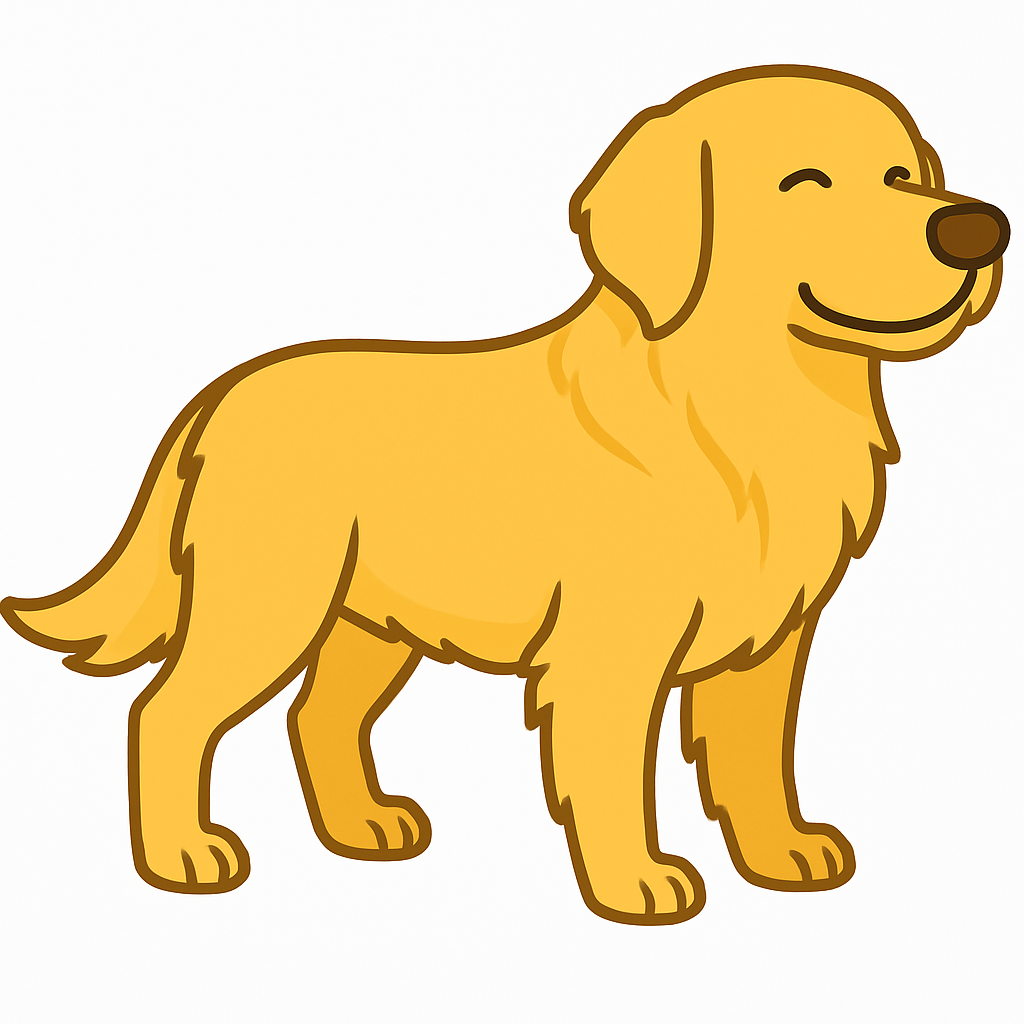
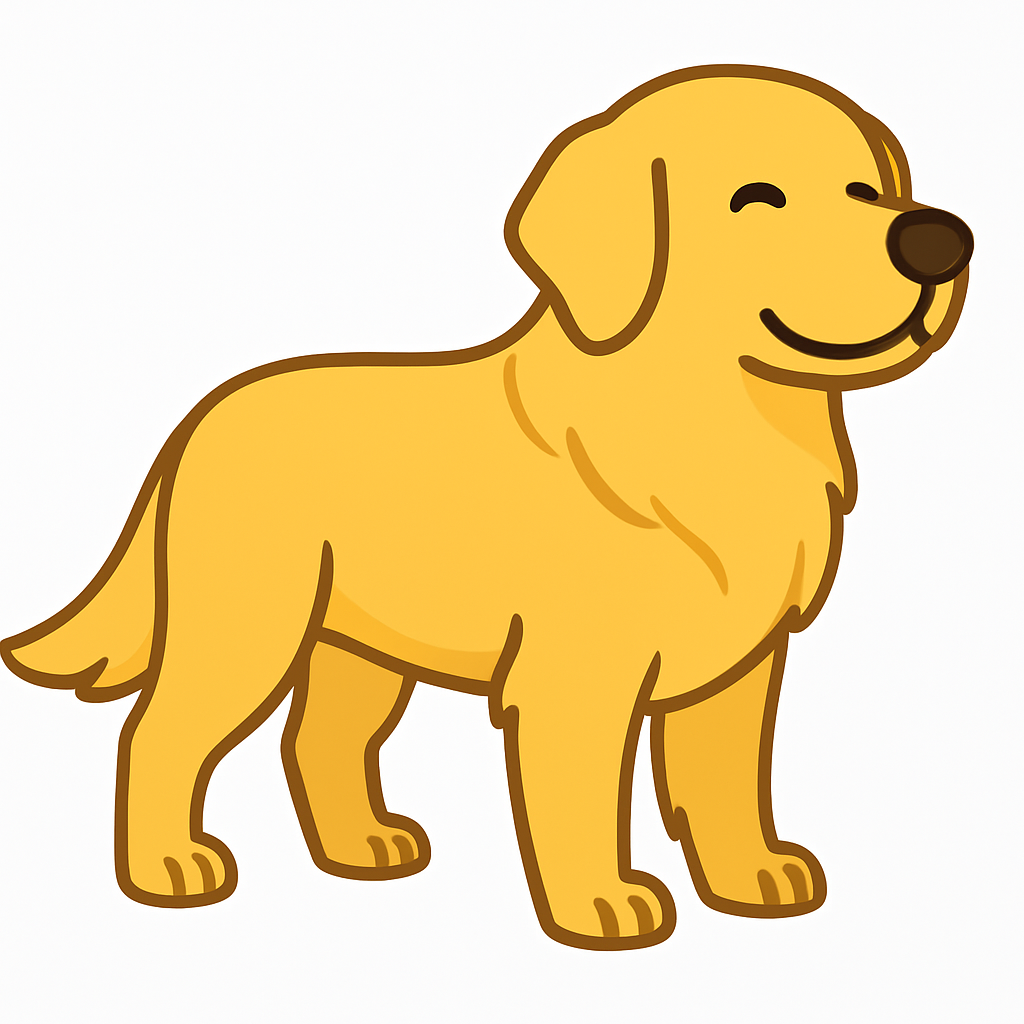
add img

Changed region(s): [[0.0, 0.0625, 1.0, 0.9375]]

diff --git a/src/App.tsx b/src/App.tsx
@@ -7,34 +7,32 @@ import { state } from "./state";
 import { Stage } from "./types";
 
 import firstDog from "./images/1.png";
+import { IMG_MAP } from "./constants";
 
 export function App() {
   const { points, stage, reaction } = useSnapshot(state);
 
-  // Если что логика скрыта
-  // const handleClick = () => {
-  //   const newPoints = points + 1;
-  //   state.points = newPoints;
+  const handleClick = () => {
+    const newPoints = points + 1;
+    state.points = newPoints;
 
-  //   if (newPoints === 10) {
-  //     state.stage = Stage.second;
-  //   }
-  //   if (newPoints === 25) {
-  //     state.stage = Stage.third;
-  //   }
+    if (newPoints === 10) {
+      state.stage = Stage.second;
+    }
+    if (newPoints === 25) {
+      state.stage = Stage.third;
+    }
 
-  //   // Простая случайная реакция
-  //   const reactions = [
-  //     "Гав-гав!",
-  //     "Мяу... ой, я пёс!",
-  //     "Хочу косточку!",
-  //     "Ты лучший друг!",
-  //     "Погладь меня ещё!",
-  //   ];
-  //   state.reaction = reactions[Math.floor(Math.random() * reactions.length)];
-  // };
-
-  const handleClick = () => {};
+    // Простая случайная реакция
+    const reactions = [
+      "Гав-гав!",
+      "Мяу... ой, я пёс!",
+      "Хочу косточку!",
+      "Ты лучший друг!",
+      "Погладь меня ещё!",
+    ];
+    state.reaction = reactions[Math.floor(Math.random() * reactions.length)];
+  };
 
   return (
     <main className="flex flex-col items-center justify-center min-h-screen bg-yellow-50 p-4">
@@ -45,12 +43,20 @@ export function App() {
       <Card className="w-80 text-center">
         <CardContent className="p-4">
           <motion.img
-            src={firstDog}
+            src={IMG_MAP[state.stage]}
             alt="golden retriever"
             className="rounded-xl mb-4"
-            initial={{ scale: 0.8 }}
-            animate={{ scale: 1 }}
-            transition={{ type: "spring", stiffness: 200 }}
+            animate={{
+              rotate: [0, -2, 2, -2, 2, 0], // колебание
+              x: [0, -2, 2, -2, 2, 0], // горизонтальное смещение
+            }}
+            transition={{
+              ease: "easeInOut",
+              duration: 0.5,
+              repeat: Infinity,
+              repeatType: "loop",
+            }}
+            onClick={handleClick}
           />
           <h2 className="text-xl font-semibold mb-2">Стадия: {stage}</h2>
           <p className="text-gray-700 mb-2">Очки счастья: {points}</p>

diff --git a/src/constants.ts b/src/constants.ts
@@ -1,0 +1,11 @@
+import { Stage } from "./types";
+
+import firstDog from "./images/1.png";
+import secondDog from "./images/2.png";
+import thirdDog from "./images/3.png";
+
+export const IMG_MAP = {
+  [Stage.first]: firstDog,
+  [Stage.second]: secondDog,
+  [Stage.third]: thirdDog,
+};
